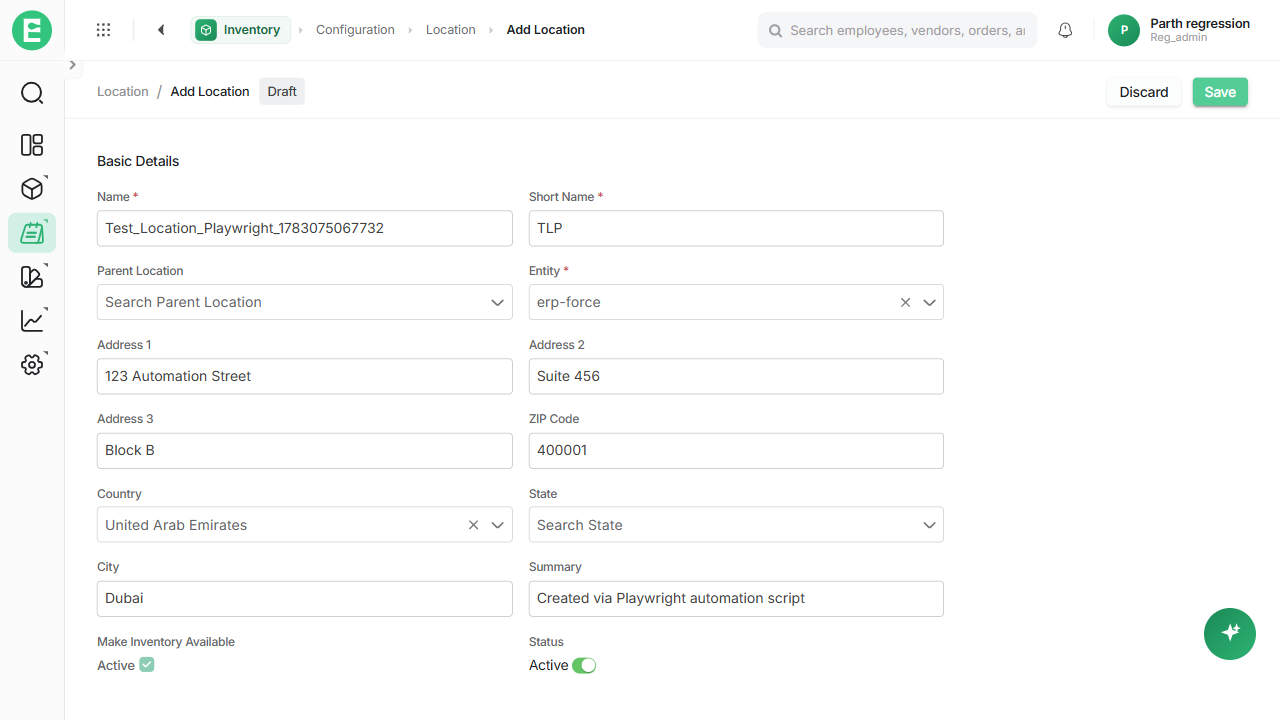
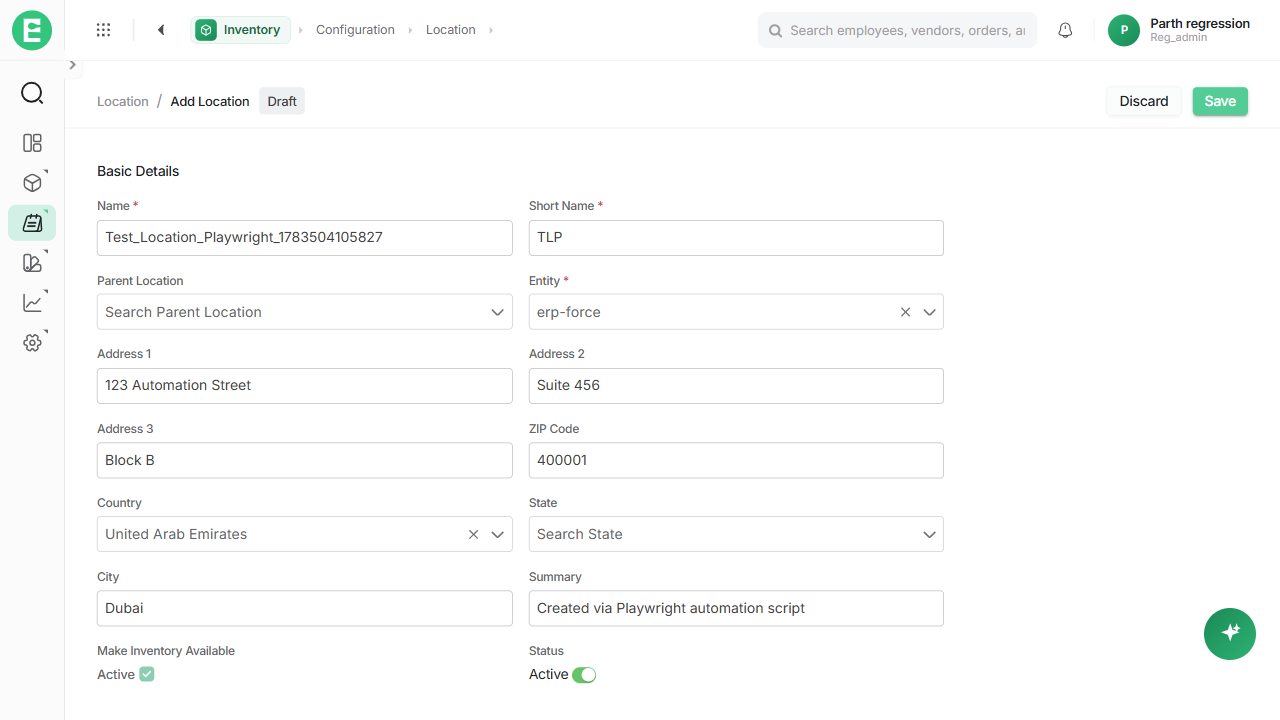
feat: inventory automation script

diff --git a/tests/inventory/02-location.spec.js b/tests/inventory/02-location.spec.js
@@ -11,13 +11,13 @@ test.describe('Location Management', () => {
 
     // Navigate to list and verify page loaded
     await location.gotoList();
-    await expect(page.locator('text=Location').first()).toBeVisible();
+    await expect(page.getByRole('main').getByText('Location', { exact: true })).toBeVisible();
 
     // Open Add Location form
     await location.addButton.click();
     await page.waitForURL('**/add-location');
     await page.waitForLoadState('networkidle');
-    await expect(page.getByText('Add Location')).toBeVisible();
+    await expect(page.getByRole('main').getByText('Add Location')).toBeVisible();
 
     // Fill all form fields
     await location.fillForm(data);
@@ -55,7 +55,7 @@ test.describe('Location Management', () => {
 
     // Find the location created by TC-LOC-01 and open its edit form
     await location.openEdit(data.name);
-    await expect(page.getByText('Edit Location')).toBeVisible();
+    await expect(page.getByRole('main').getByText('Edit Location')).toBeVisible();
 
     // Verify the name field has the original name
     await expect(location.nameInput).toHaveValue(new RegExp(data.name));
@@ -106,7 +106,7 @@ test.describe('Location Management', () => {
 
     // Open edit form
     await location.openEdit(data.updatedName);
-    await expect(page.getByText('Edit Location')).toBeVisible();
+    await expect(page.getByRole('main').getByText('Edit Location')).toBeVisible();
 
     // Verify Active, then toggle to Inactive
     await expect(location.statusToggle).toBeChecked();
@@ -130,7 +130,7 @@ test.describe('Location Management', () => {
 
     // Open edit form (location currently Inactive from TC-LOC-04)
     await location.openEdit(data.updatedName);
-    await expect(page.getByText('Edit Location')).toBeVisible();
+    await expect(page.getByRole('main').getByText('Edit Location')).toBeVisible();
 
     // Verify Inactive, then toggle back to Active
     await expect(location.statusToggle).not.toBeChecked();
@@ -154,7 +154,7 @@ test.describe('Location Management', () => {
 
     // Open edit form
     await location.openEdit(data.updatedName);
-    await expect(page.getByText('Edit Location')).toBeVisible();
+    await expect(page.getByRole('main').getByText('Edit Location')).toBeVisible();
 
     // Update Address 1, City, ZIP Code
     await location.address1Input.clear();
@@ -189,7 +189,7 @@ test.describe('Location Management', () => {
 
     // Open edit form
     await location.openEdit(data.updatedName);
-    await expect(page.getByText('Edit Location')).toBeVisible();
+    await expect(page.getByRole('main').getByText('Edit Location')).toBeVisible();
 
     // Verify inventory is currently checked
     await expect(location.inventoryCheckbox).toBeChecked();
@@ -235,7 +235,7 @@ test.describe('Location Management', () => {
     // Duplicate opens the add-location form pre-filled with copied data
     await page.waitForURL('**/add-location');
     await page.waitForLoadState('networkidle');
-    await expect(page.getByText('Add Location')).toBeVisible();
+    await expect(page.getByRole('main').getByText('Add Location')).toBeVisible();
 
     // Verify the name field is pre-filled with the original (updatedName)
     await expect(location.nameInput).toHaveValue(data.updatedName);

diff --git a/tests/inventory/03-bin.spec.js b/tests/inventory/03-bin.spec.js
@@ -15,13 +15,20 @@ test.describe('Bin Management', () => {
     page = await context.newPage();
     bin  = new BinPage(page);
 
-    // Ensure the required location exists so bin tests can run standalone
+    // Ensure the required location exists so bin tests can run standalone.
+    // The list can still be rendering right after navigation, so an instant
+    // .count() can race a location another spec just created — use a
+    // retrying visibility check instead of trusting an immediate count.
     const location = new LocationPage(page);
+    const existsInList = (name) =>
+      expect(page.getByRole('link', { name, exact: true }).first()).toBeVisible({ timeout: 5000 })
+        .then(() => true).catch(() => false);
+
     await location.gotoList();
-    const updatedExists = await page.getByRole('link', { name: locData.updatedName, exact: true }).count();
-    if (updatedExists === 0) {
-      const originalExists = await page.getByRole('link', { name: locData.name, exact: true }).count();
-      if (originalExists === 0) {
+    const updatedExists = await existsInList(locData.updatedName);
+    if (!updatedExists) {
+      const originalExists = await existsInList(locData.name);
+      if (!originalExists) {
         // Create the location from scratch
         await location.addButton.click();
         await page.waitForURL('**/add-location');
@@ -29,8 +36,17 @@ test.describe('Bin Management', () => {
         await location.fillForm(locData);
         await location.ensureInventoryAvailable();
         await location.save();
-        await page.waitForURL('**/configuration/location', { timeout: 10000 });
-        await page.waitForLoadState('networkidle');
+
+        // Another spec may have created this exact location moments ago —
+        // the retrying check above just missed it. Treat the resulting
+        // duplicate-name error the same as a successful create.
+        const createDuplicate = await location.duplicateNameError.isVisible({ timeout: 3000 }).catch(() => false);
+        if (createDuplicate) {
+          await location.gotoList();
+        } else {
+          await page.waitForURL('**/configuration/location', { timeout: 10000 });
+          await page.waitForLoadState('networkidle');
+        }
       }
       // Rename original name → updatedName (mirrors what TC-LOC-02 does)
       await location.openEdit(locData.name);
@@ -107,7 +123,7 @@ test.describe('Bin Management', () => {
 
     // Step 1: Navigate to Bins list and open Add form
     await bin.gotoList();
-    await expect(page.locator('text=Bins').first()).toBeVisible();
+    await expect(page.getByRole('main').getByText('Bins', { exact: true })).toBeVisible();
     await bin.addButton.click();
     await page.waitForURL('**/add-bins');
     await page.waitForLoadState('networkidle');

diff --git a/tests/inventory/01-attribute.spec.js b/tests/inventory/01-attribute.spec.js
@@ -23,7 +23,7 @@ test.describe('Attribute Management', () => {
 
     // Step 1: Navigate to Attributes list and open Add form
     await attribute.gotoList();
-    await expect(page.locator('text=Attributes').first()).toBeVisible();
+    await expect(page.getByRole('main').getByText('Attributes', { exact: true })).toBeVisible();
 
     await attribute.addButton.click();
     await page.waitForURL('**/add-attributes');
